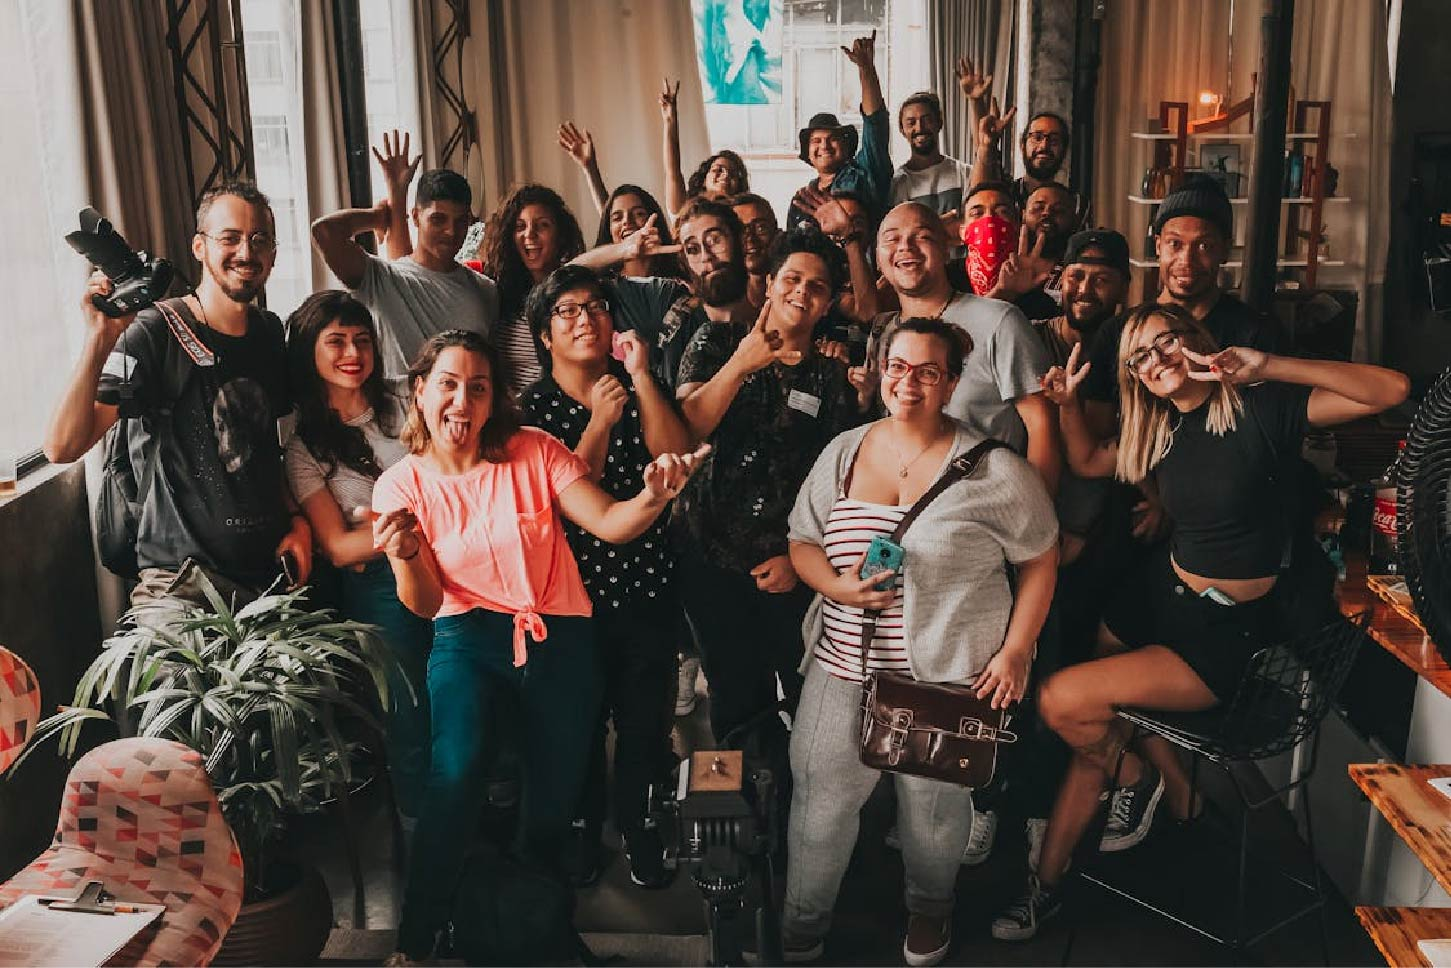
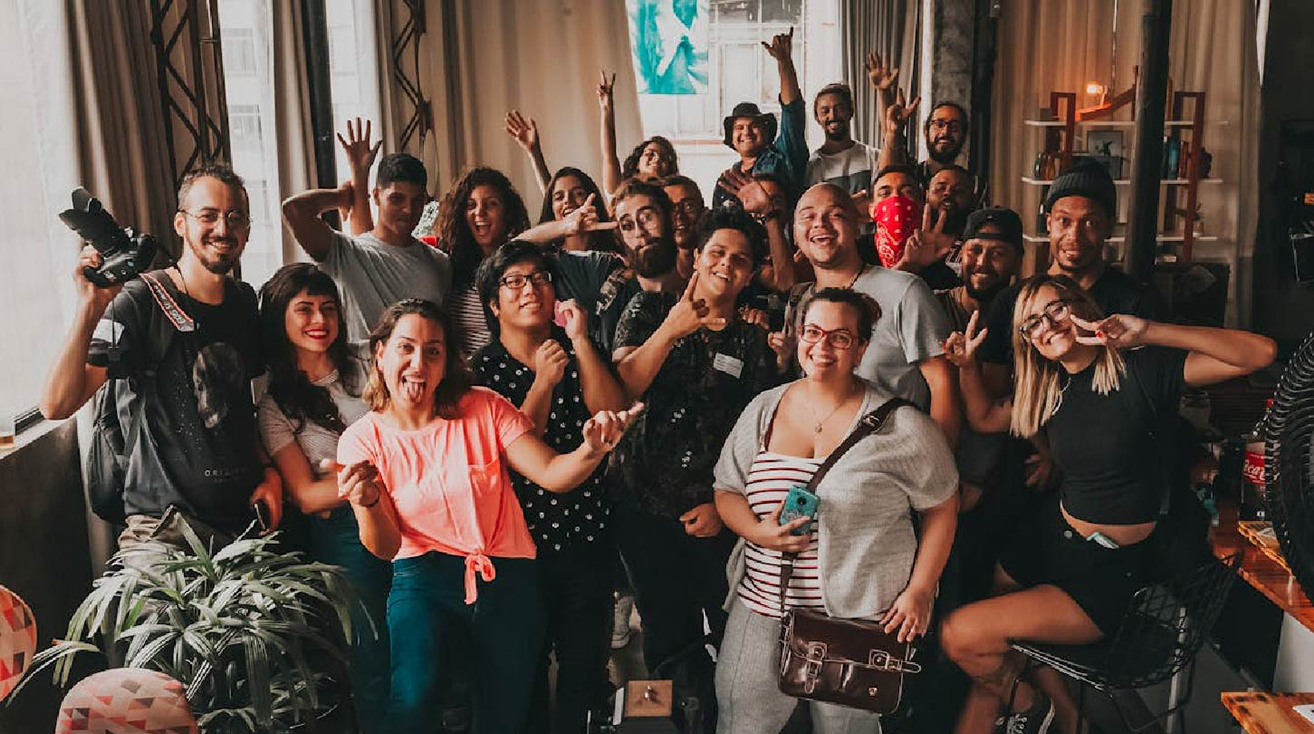
Ignorar .DS_Store y actualizar curso.json, index.html e imágenes

diff --git a/index.html b/index.html
@@ -44,6 +44,7 @@
     }
     #content {
       padding: 20px;
+      overflow: hidden;
     }
     .subtema {
       cursor: pointer;
@@ -456,20 +457,20 @@ table.tabla-vf .vf-checkbox:checked::after {
 </head>
 <body>
   <!-- Encabezado -->
-<nav class="brand navbar px-3 d-flex justify-content-between align-items-center">
-  <div class="d-flex align-items-center">
+<nav class="brand navbar px-3 d-flex align-items-center">
+  <div class="col-md-3 col-6 d-flex align-items-center">
     <button class="btn btn-outline-light d-md-none me-2" type="button" data-bs-toggle="offcanvas" data-bs-target="#offcanvasMenu">
       ☰
     </button>
     <a class="navbar-brand me-2" href="#">
       <img src="src/img/logoSOFOFA-blanco.png" alt="Logo SOFOFA" style="max-height:40px;" class="img-fluid">
     </a>
+  </div>
+
+  <div class="col-md-9 col-6 d-flex justify-content-between align-items-center">
     <a class="navbar-brand ms-2" href="#">
       <img src="src/img/logoFACILITADOR-blanco.svg" alt="Logo formacion para el facilitador"  style="height:40px; width:auto; display:block;" class="img-fluid">
     </a>
-  </div>
-
-  <div class="d-flex align-items-center">
     <a href="#">
       <img src="src/img/logoSENSE-blanco.svg" alt="Logo sense" style="height:40px; width:auto; display:block;" class="img-fluid">
     </a>
